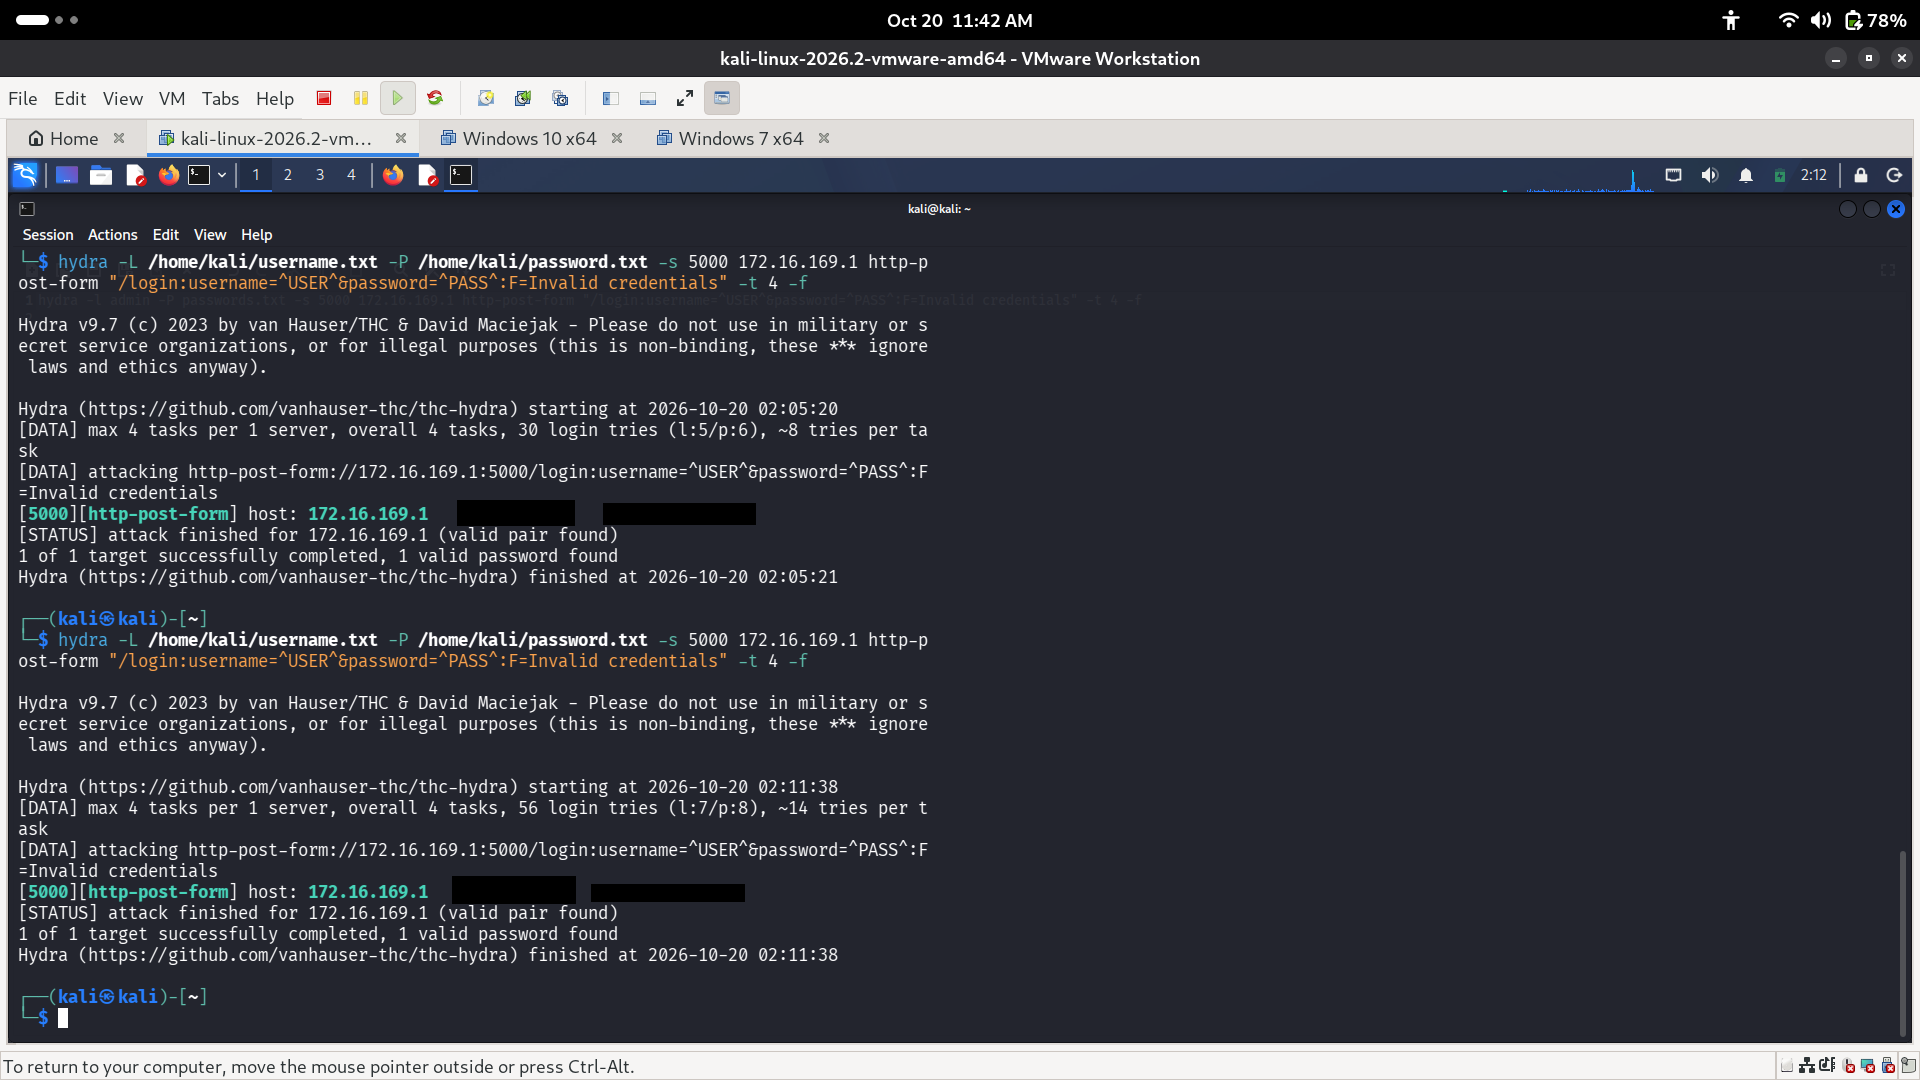
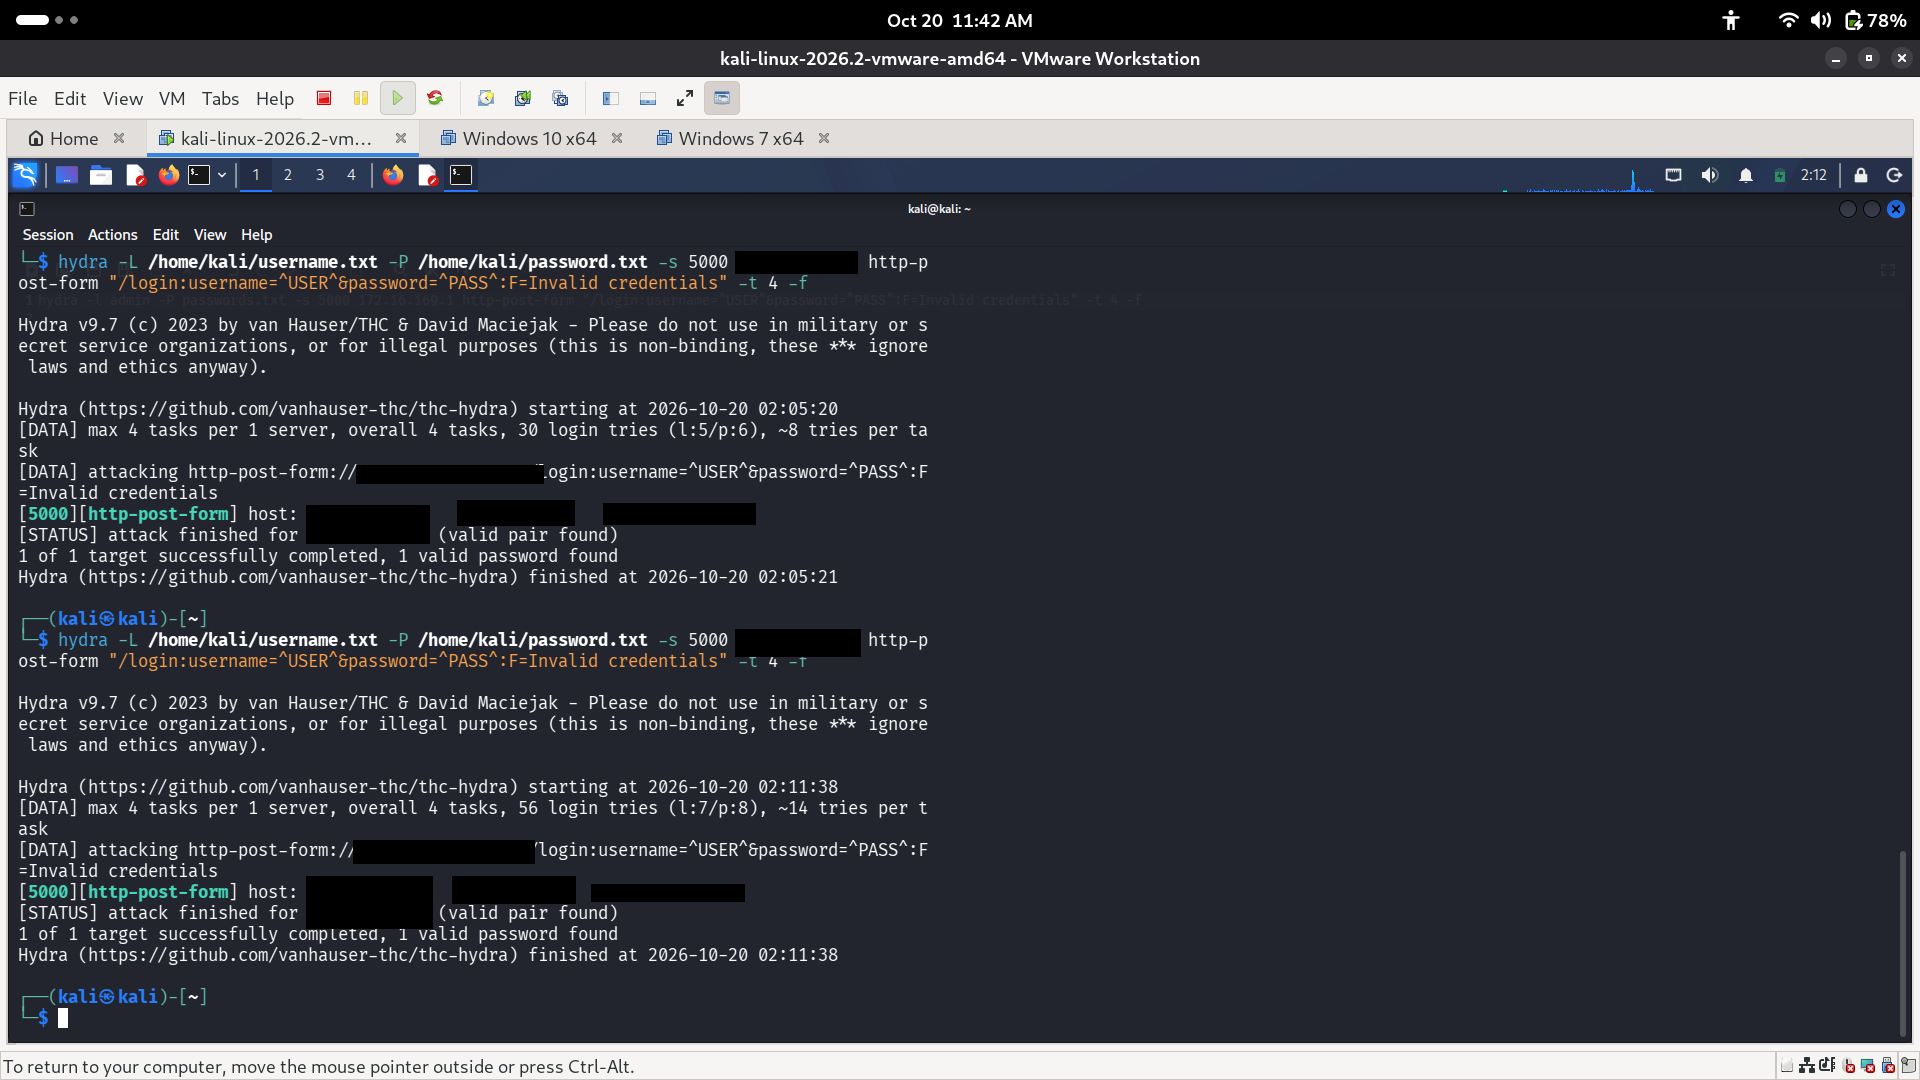
docs: finalize README and redact project evidence

diff --git a/README.md b/README.md
@@ -24,123 +24,22 @@ The project provides a controlled environment for exploring authentication attac
 ## Project Screenshots
 
 ### Brute-Force Detection
-![Brute-force detection](evidence/brute-force-detection.png)
+
+![Brute-force detection](evidence/brute-force-detection-redacted.png)
 
 ### Failed Login Attempts
-![Failed login attempts](evidence/failed-login-attempts.png)
+
+![Failed login attempts](evidence/failed-login-attempts-redacted.png)
 
 ### Hydra Attack Demonstration
+
 ![Hydra attack demonstration](evidence/hydra-attack-redacted.png)
 
+*Tested only against my own local lab environment.*
+
 ### Session Cookie Security
+
 ![Redacted session cookie evidence](evidence/before-cookie-redacted.png)
-
-## How Detection Works
-
-SecureLab monitors failed authentication attempts and identifies suspicious login activity using time-based detection rules.
-
-### 1. Brute-Force Detection
-- Monitors failed login attempts from an IP address.
-- Triggers a brute-force alert when 5 or more failed attempts occur within 10 minutes.
-- Temporarily blocks the IP address for 5 minutes.
-
-### 2. Password-Spraying Detection
-- Monitors failed login attempts across different usernames from the same IP address.
-- Triggers a password-spraying alert when at least 5 failed attempts target at least 5 distinct usernames within 10 minutes.
-
-### Detection Workflow
-
-1. A user submits a login attempt.
-2. The application records the authentication event.
-3. Detection functions analyze recent failed attempts.
-4. Suspicious activity generates a security alert.
-5. The application temporarily blocks the IP when the brute-force threshold is reached.
-6. The admin dashboard displays security activity and alerts.
-
-### Detection Flow
-
-Login Attempt
-     |
-     v
-Authentication Event Logged
-     |
-     v
-Detection Rules Evaluated
-     |
-     +----------------------+
-     |                      |
-     v                      v
-Normal Activity       Suspicious Activity
-                            |
-                            v
-                      Security Alert
-                            |
-                            v
-                   Temporary IP Block
-                            |
-                            v
-                    Admin Dashboard
-
-## Test Results
-
-SecureLab was tested locally using Flask's test client and SQLite test databases.
-
-| Test | Expected Result | Result |
-|---|---|---|
-| Existing user with incorrect password | Login rejected | PASS |
-| Unknown username | Login rejected with generic error | PASS |
-| Missing credentials | Generic validation error | PASS |
-| Brute-force threshold | IP not blocked after 4 failures; blocked after 5 | PASS |
-| Brute-force alert | Alert created | PASS |
-| Duplicate brute-force alert | Duplicate alert prevented | PASS |
-| Blocked IP login | Login rejected | PASS |
-| Expired IP block | Block becomes inactive | PASS |
-| Expired block cleanup | Database entry removed | PASS |
-| Password spraying | Alert generated for 5 usernames and 5 failed attempts | PASS |
-| Repeated username | No password-spraying alert generated | PASS |
-| Database cleanup | Connection closes after commit/insert failures | PASS |
-
-**Test files:**
-- `test_login_timing.py`
-- `test_db_cleanup.py`
-
-These results represent local lab testing and do not establish production security.
-
-## Security Design Choices
-
-| Security Control | Implementation |
-|---|---|
-| Password Storage | Passwords are stored using Werkzeug password hashing rather than plaintext. |
-| CSRF Protection | Flask-WTF protects form submissions against cross-site request forgery. |
-| SQL Injection Prevention | Parameterized SQL queries are used for database operations. |
-| Authentication Errors | Generic login errors avoid revealing whether a username exists. |
-| Session Security | Flask session lifetime and cookie settings are configured. |
-| Access Control | Role-based access control separates admin and regular-user access. |
-| Attack Monitoring | Failed authentication attempts are logged and analyzed for suspicious activity. |
-
-## Why I Built This
-
-I built SecureLab to understand how authentication attacks work and how applications can detect and respond to suspicious login activity. The project helped me apply Python, Flask, SQL, and basic security concepts in a practical environment.
-
-## Project Roadmap
-
-### Completed
-- [x] User authentication with password hashing
-- [x] Brute-force detection
-- [x] Password-spraying detection
-- [x] Temporary IP blocking
-- [x] Authentication logging
-- [x] Security alerts
-- [x] Admin dashboard
-- [x] CSRF protection
-- [x] Role-based access control
-- [x] Failed-login activity chart
-
-### Planned
-- [ ] Successful-login anomaly detection
-- [ ] Exportable security reports
-- [ ] More automated security test cases
-- [ ] Improved dashboard analytics
 
 ## Technology Stack
 
@@ -251,11 +150,103 @@ python app.py
 
 Open the application in your browser:
 
+```text
 http://127.0.0.1:5000
+```
 
 Log in using the account you created in Step 6.
 
 For local virtual-machine testing, configure networking and the Flask listening address as required. Do not expose the Flask development server to untrusted networks.
+
+## How Detection Works
+
+SecureLab monitors failed authentication attempts and identifies suspicious login activity using time-based detection rules.
+
+### 1. Brute-Force Detection
+
+- Monitors failed login attempts from an IP address.
+- Triggers a brute-force alert when 5 or more failed attempts occur within 10 minutes.
+- Temporarily blocks the IP address for 5 minutes.
+
+### 2. Password-Spraying Detection
+
+- Monitors failed login attempts across different usernames from the same IP address.
+- Triggers a password-spraying alert when at least 5 failed attempts target at least 5 distinct usernames within 10 minutes.
+
+### Detection Workflow
+
+1. A user submits a login attempt.
+2. The application records the authentication event.
+3. Detection functions analyze recent failed attempts.
+4. Suspicious activity generates a security alert.
+5. The application temporarily blocks the IP when the brute-force threshold is reached.
+6. The admin dashboard displays security activity and alerts.
+
+## Test Results
+
+SecureLab was tested locally using Flask's test client and SQLite test databases.
+
+| Test | Expected Result | Result |
+|---|---|---|
+| Existing user with incorrect password | Login rejected | PASS |
+| Unknown username | Login rejected with generic error | PASS |
+| Missing credentials | Generic validation error | PASS |
+| Brute-force threshold | IP not blocked after 4 failures; blocked after 5 | PASS |
+| Brute-force alert | Alert created | PASS |
+| Duplicate brute-force alert | Duplicate alert prevented | PASS |
+| Blocked IP login | Login rejected | PASS |
+| Expired IP block | Block becomes inactive | PASS |
+| Expired block cleanup | Database entry removed | PASS |
+| Password spraying | Alert generated for 5 usernames and 5 failed attempts | PASS |
+| Repeated username | No password-spraying alert generated | PASS |
+| Database cleanup | Connection closes after commit/insert failures | PASS |
+
+**Test files and approach:**
+
+- `test_login_timing.py` — A local verification script covering authentication responses, brute-force detection, IP blocking, block expiry, and password-spraying detection. Results are printed for inspection.
+- `test_db_cleanup.py` — Automated unit tests using `unittest` and mocks to verify database connection cleanup after insert and commit failures.
+
+These checks were performed in a controlled local lab environment. They do not constitute comprehensive security testing.
+
+## Security Design Choices
+
+| Security Control | Implementation |
+|---|---|
+| Password Storage | Passwords are stored using Werkzeug password hashing rather than plaintext. |
+| CSRF Protection | Flask-WTF protects form submissions against cross-site request forgery. |
+| SQL Injection Prevention | Parameterized SQL queries are used for database operations. |
+| Authentication Errors | Generic login errors avoid revealing whether a username exists. |
+| Session Security | Flask session lifetime and cookie settings are configured. |
+| Access Control | Role-based access control separates admin and regular-user access. |
+| Attack Monitoring | Failed authentication attempts are logged and analyzed for suspicious activity. |
+
+## Why I Built This
+
+I built SecureLab to understand how authentication attacks work and how applications can detect and respond to suspicious login activity. The project helped me apply Python, Flask, SQL, and basic security concepts in a practical environment.
+
+## Project Roadmap
+
+### Completed
+
+- [x] User authentication with password hashing
+- [x] Brute-force detection
+- [x] Password-spraying detection
+- [x] Temporary IP blocking
+- [x] Authentication logging
+- [x] Security alerts
+- [x] Admin dashboard
+- [x] CSRF protection
+- [x] Role-based access control
+- [x] Failed-login activity chart
+
+### Planned
+
+- [ ] Successful-login anomaly detection
+- [ ] Exportable security reports
+- [ ] Configurable detection thresholds
+- [ ] Admin audit logging
+- [ ] Improved deployment security
+- [ ] Expanded security testing and analytics
 
 ## Security Testing
 
@@ -290,15 +281,6 @@ SecureLab is an educational project, not a production-ready security product.
 Its detection rules are simplified and may produce false positives or false negatives. Production deployment would require additional security review, comprehensive automated testing, HTTPS configuration, secure cookie settings, robust logging, operational monitoring, database migration management, and deployment hardening.
 
 The Flask development server is intended for local development and testing, not production deployment.
-
-## Future Improvements
-
-- Improve detection accuracy and reduce false positives.
-- Add configurable detection thresholds.
-- Introduce admin audit logging for security-sensitive actions.
-- Improve deployment configuration and security hardening.
-- Expand automated regression testing.
-- Improve documentation of attack simulations and defensive responses.
 
 ## Author
 
